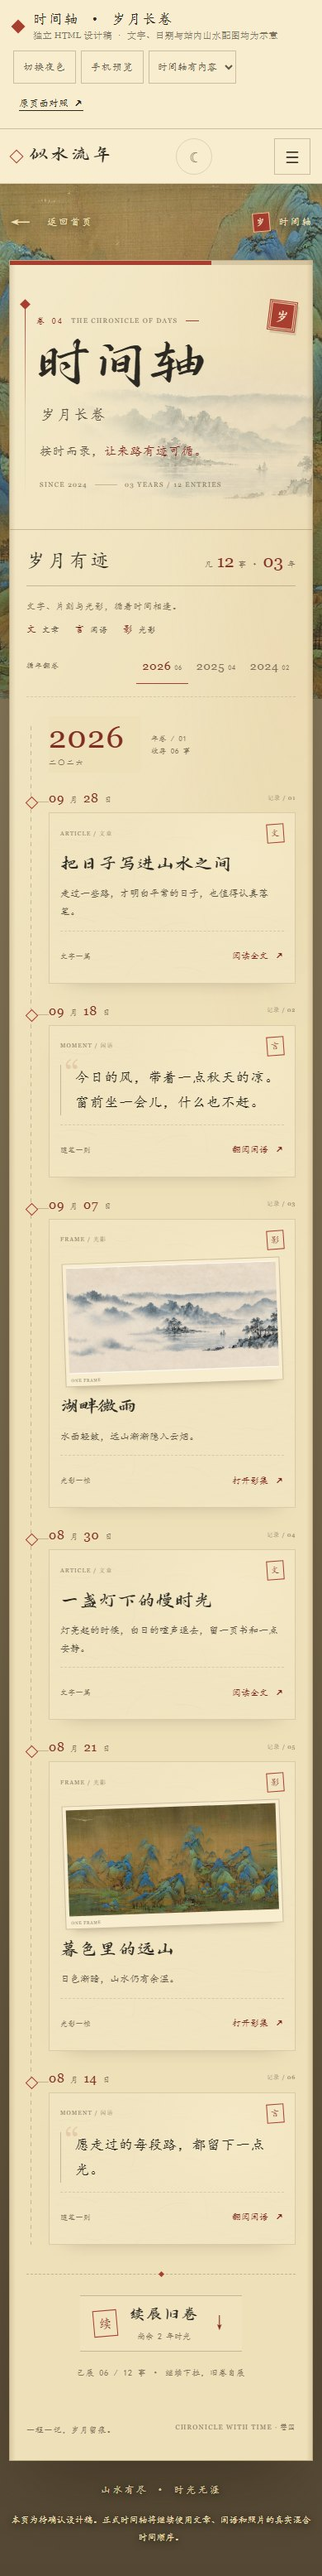
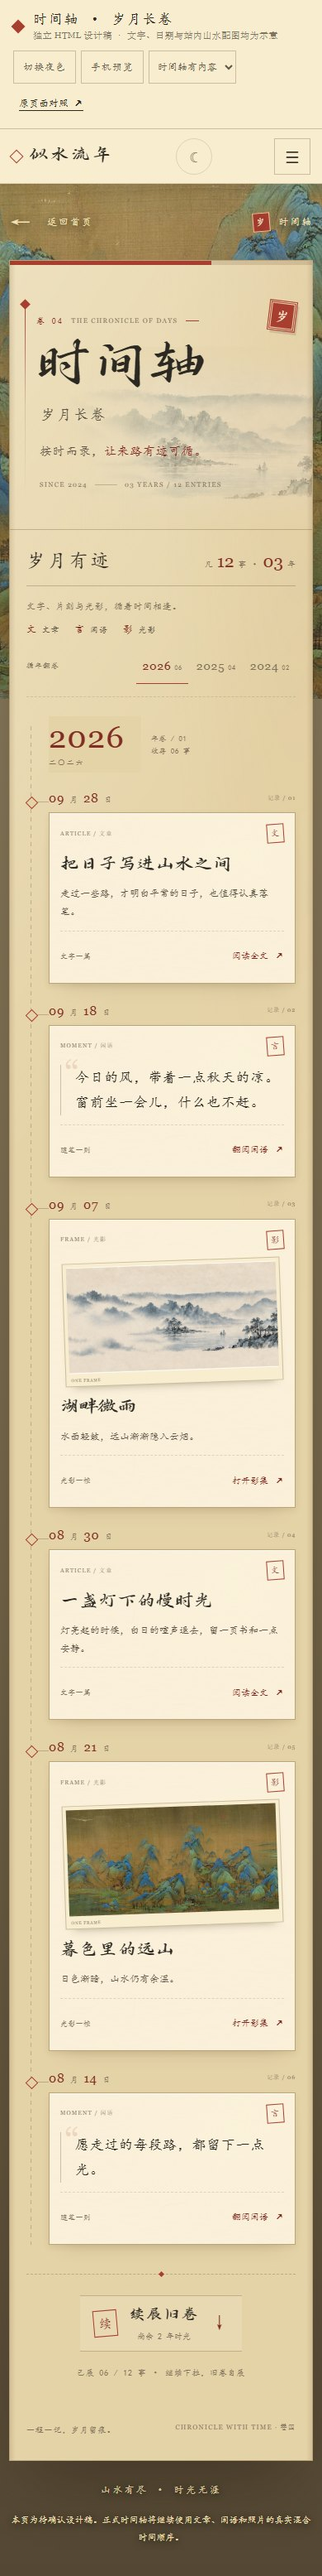
design(timeline): strengthen paper card contrast

Changed region(s): [[0.1231, 0.3118, 0.9231, 0.873]]

diff --git a/effect-preview/timeline-years-scroll-v1.html b/effect-preview/timeline-years-scroll-v1.html
@@ -89,6 +89,8 @@
 
 
 /* 统一题头，卷四的朱线占纸宽 4/6。正文保留年卷与左右交错。 */
+:root {--paper:#e5d3a8;--record-paper:#fbf1da;--record-border:#bba67a;--record-shadow:0 3px 7px #4b331617,0 14px 24px -18px #4b331640,inset 0 1px 0 #fff9;--record-hover-shadow:0 4px 9px #4b33161c,0 18px 28px -18px #4b331650,inset 0 1px 0 #fff9;}
+:root[data-theme="dark"] {--paper:#322b23;--record-paper:#524534;--record-border:#81704e;--record-shadow:0 3px 8px #0003,0 14px 24px -18px #0009,inset 0 1px 0 #ecd6a619;--record-hover-shadow:0 4px 10px #0004,0 18px 28px -18px #000b,inset 0 1px 0 #ecd6a624;}
 .site-nav {background:var(--paper-bright);color:var(--ink);border-color:var(--line-soft);box-shadow:0 2px 18px #211b1512;}
 .nav-links a[aria-current="page"] {color:var(--seal-dark);}
 .brand-en,.nav-theme {color:var(--ink-faint);}
@@ -140,8 +142,8 @@ h1 .title-tail {font-size:23px;letter-spacing:.12em;}
 .entry-meta {display:flex;align-items:center;justify-content:space-between;gap:12px;margin-bottom:9px;color:var(--ink-faint);font:9px Georgia,serif;letter-spacing:.12em;}
 .entry-meta time {color:var(--seal-dark);font:16px Georgia,serif;letter-spacing:.05em;}
 .entry-meta time small {margin:0 6px;color:var(--ink-faint);font:10px var(--kai);}
-.record {position:relative;isolation:isolate;min-width:0;padding:16px 17px 12px;border:1px solid var(--line-soft);background:color-mix(in srgb,var(--paper-bright) 36%,var(--paper));box-shadow:0 12px 23px -23px #30271990;transition:border-color .35s,box-shadow .35s;}
-.record::before {position:absolute;inset:0;z-index:-1;content:"";background:radial-gradient(ellipse 170px 150px at var(--mx,75%) var(--my,25%),var(--card-spot),transparent 76%),var(--fiber);background-size:auto,220px auto;opacity:.3;pointer-events:none;transition:opacity .4s;}
+.record {position:relative;isolation:isolate;min-width:0;padding:16px 17px 12px;border:1px solid var(--record-border);background:var(--record-paper);box-shadow:var(--record-shadow);transition:border-color .35s,box-shadow .35s;}
+.record::before {position:absolute;inset:0;z-index:-1;content:"";background:radial-gradient(ellipse 170px 150px at var(--mx,75%) var(--my,25%),var(--card-spot),transparent 76%),var(--fiber);background-size:auto,220px auto;opacity:.14;pointer-events:none;transition:opacity .4s;}
 .record-kicker {display:flex;justify-content:space-between;align-items:center;gap:10px;margin-bottom:12px;color:var(--ink-faint);font:8px Georgia,serif;letter-spacing:.15em;}
 .record-kicker i {display:grid;place-items:center;width:21px;height:23px;border:1px solid var(--seal);color:var(--seal-dark);font:11px var(--kai);font-style:normal;transform:rotate(-4deg);transition:background .3s,color .3s,transform .3s;}
 .record-body {display:flex;align-items:center;gap:14px;min-width:0;}
@@ -162,12 +164,12 @@ h1 .title-tail {font-size:23px;letter-spacing:.12em;}
 .record-foot > span {letter-spacing:.03em;}
 .record-foot a {display:inline-flex;align-items:center;gap:8px;min-height:30px;color:var(--seal-dark);text-decoration:none;white-space:nowrap;font:11px var(--kai);}
 .record-foot a b {font:inherit;transition:transform .35s;}
-.entry:focus-within .record {border-color:var(--seal);box-shadow:0 16px 26px -24px #302719a0;}
+.entry:focus-within .record {border-color:var(--seal);box-shadow:var(--record-hover-shadow);}
 .entry:focus-within::after {background:var(--seal);box-shadow:0 0 0 4px color-mix(in srgb,var(--seal) 10%,transparent);}
 .entry:focus-within .record-kicker i {background:var(--seal);color:var(--paper-bright);transform:rotate(0deg);}
 @media (hover:hover) and (pointer:fine) {
- .entry:hover .record {border-color:var(--seal);box-shadow:0 16px 26px -24px #302719a0;}
- .entry:hover .record::before {opacity:.65;}
+ .entry:hover .record {border-color:var(--seal);box-shadow:var(--record-hover-shadow);}
+ .entry:hover .record::before {opacity:.35;}
  .entry:hover::after {background:var(--seal);box-shadow:0 0 0 4px color-mix(in srgb,var(--seal) 10%,transparent);}
  .entry:hover .record-kicker i {background:var(--seal);color:var(--paper-bright);transform:rotate(0deg);}
  .entry:hover .record-foot a b {transform:translateX(3px);}

diff --git a/effect-preview/timeline-years-scroll-v1.md b/effect-preview/timeline-years-scroll-v1.md
@@ -28,6 +28,10 @@
 | 悬停 | 纸面局部亮色、朱印填色、轴点亮起与箭头微移；键盘焦点也有可见反馈 |
 | 卷尾 | “续展旧卷”纸签、已展记录数；读完全部年份后显示明确卷尾 |
 
+### 卡片与背景区分度调整
+
+根据“卡片和背景区分度太小”的反馈，日色底纸加深为 `#e5d3a8`，纸签采用独立的米白色 `#fbf1da` 与墨褐边框 `#bba67a`。增加浅落影和顶部纸边高光，降低卡片纹理叠加的浓度，让未悬停时也能看清卡片轮廓。夜色对应使用 `#322b23` 底纸、`#524534` 纸签与 `#81704e` 边框。调整只作用于设计稿，卡片尺寸和时间顺序保持原样；桌面、手机与夜色截图已更新。
+
 1440px 下本稿首年纸签实测约 149–210px 高。照片在手机上使用更宽的画幅，避免内容挤在狭窄的左右栏里。页面没有类型筛选，三类记录始终沿同一时间顺序阅读。
 
 ## 可体验交互
